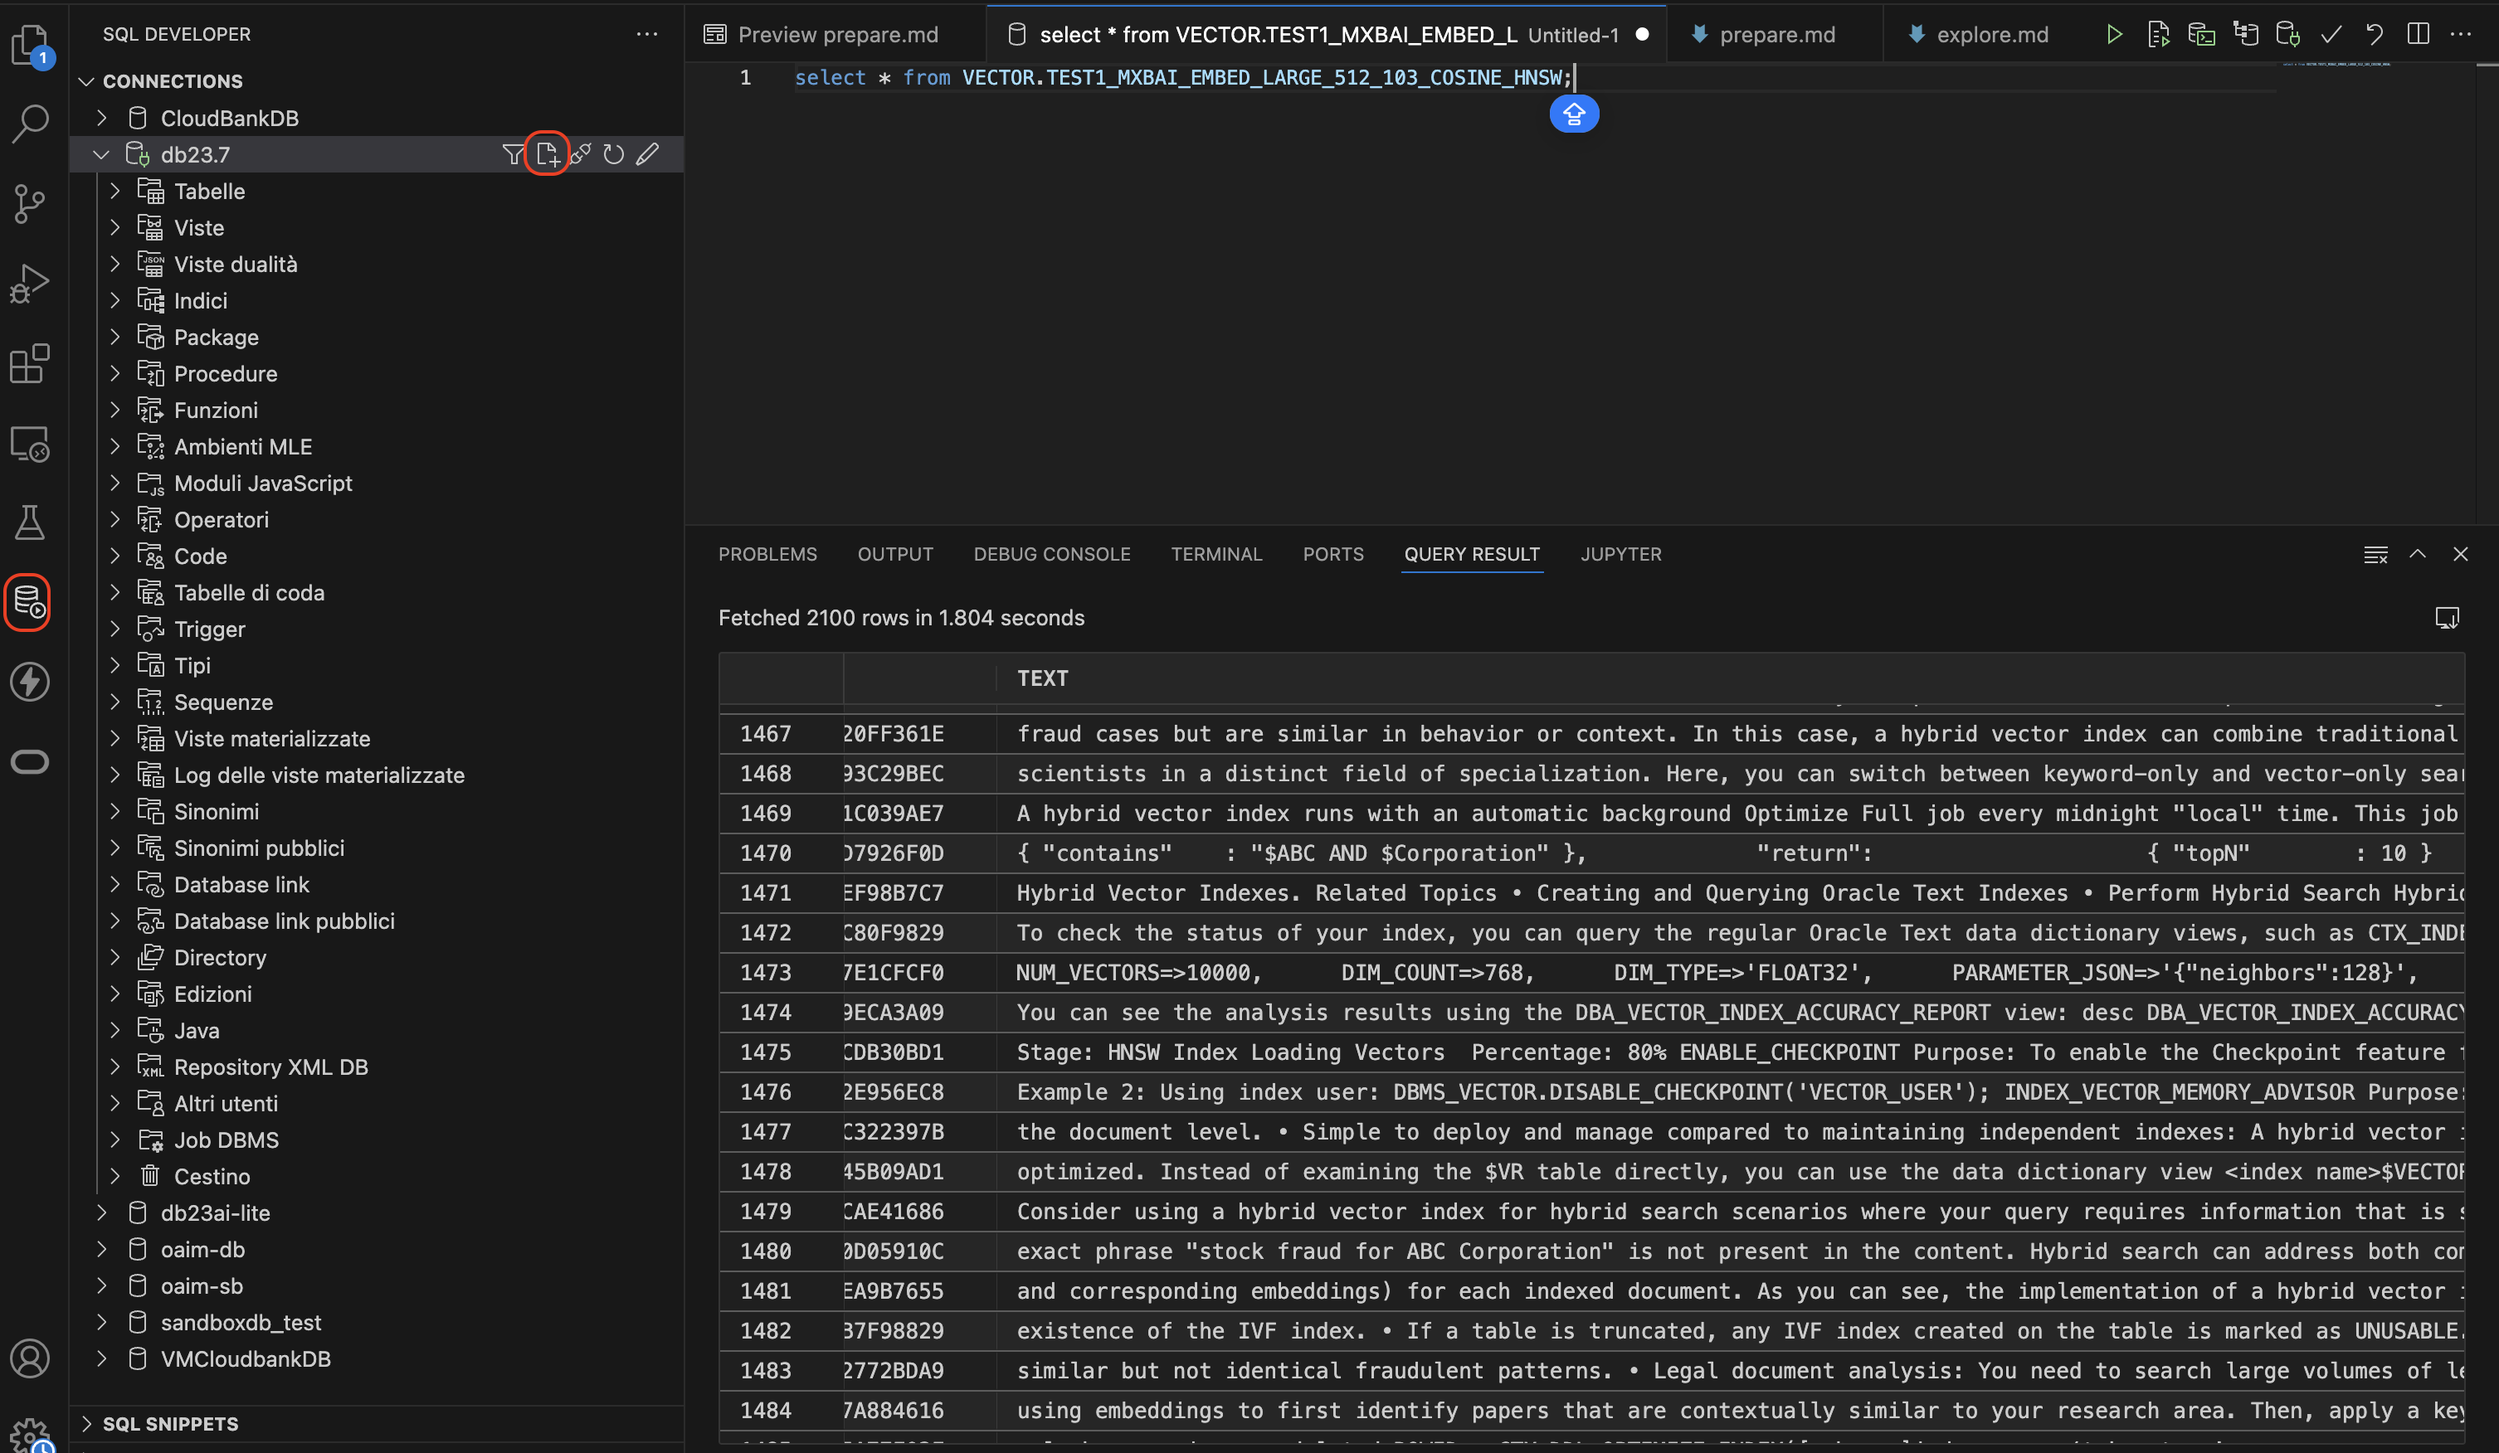
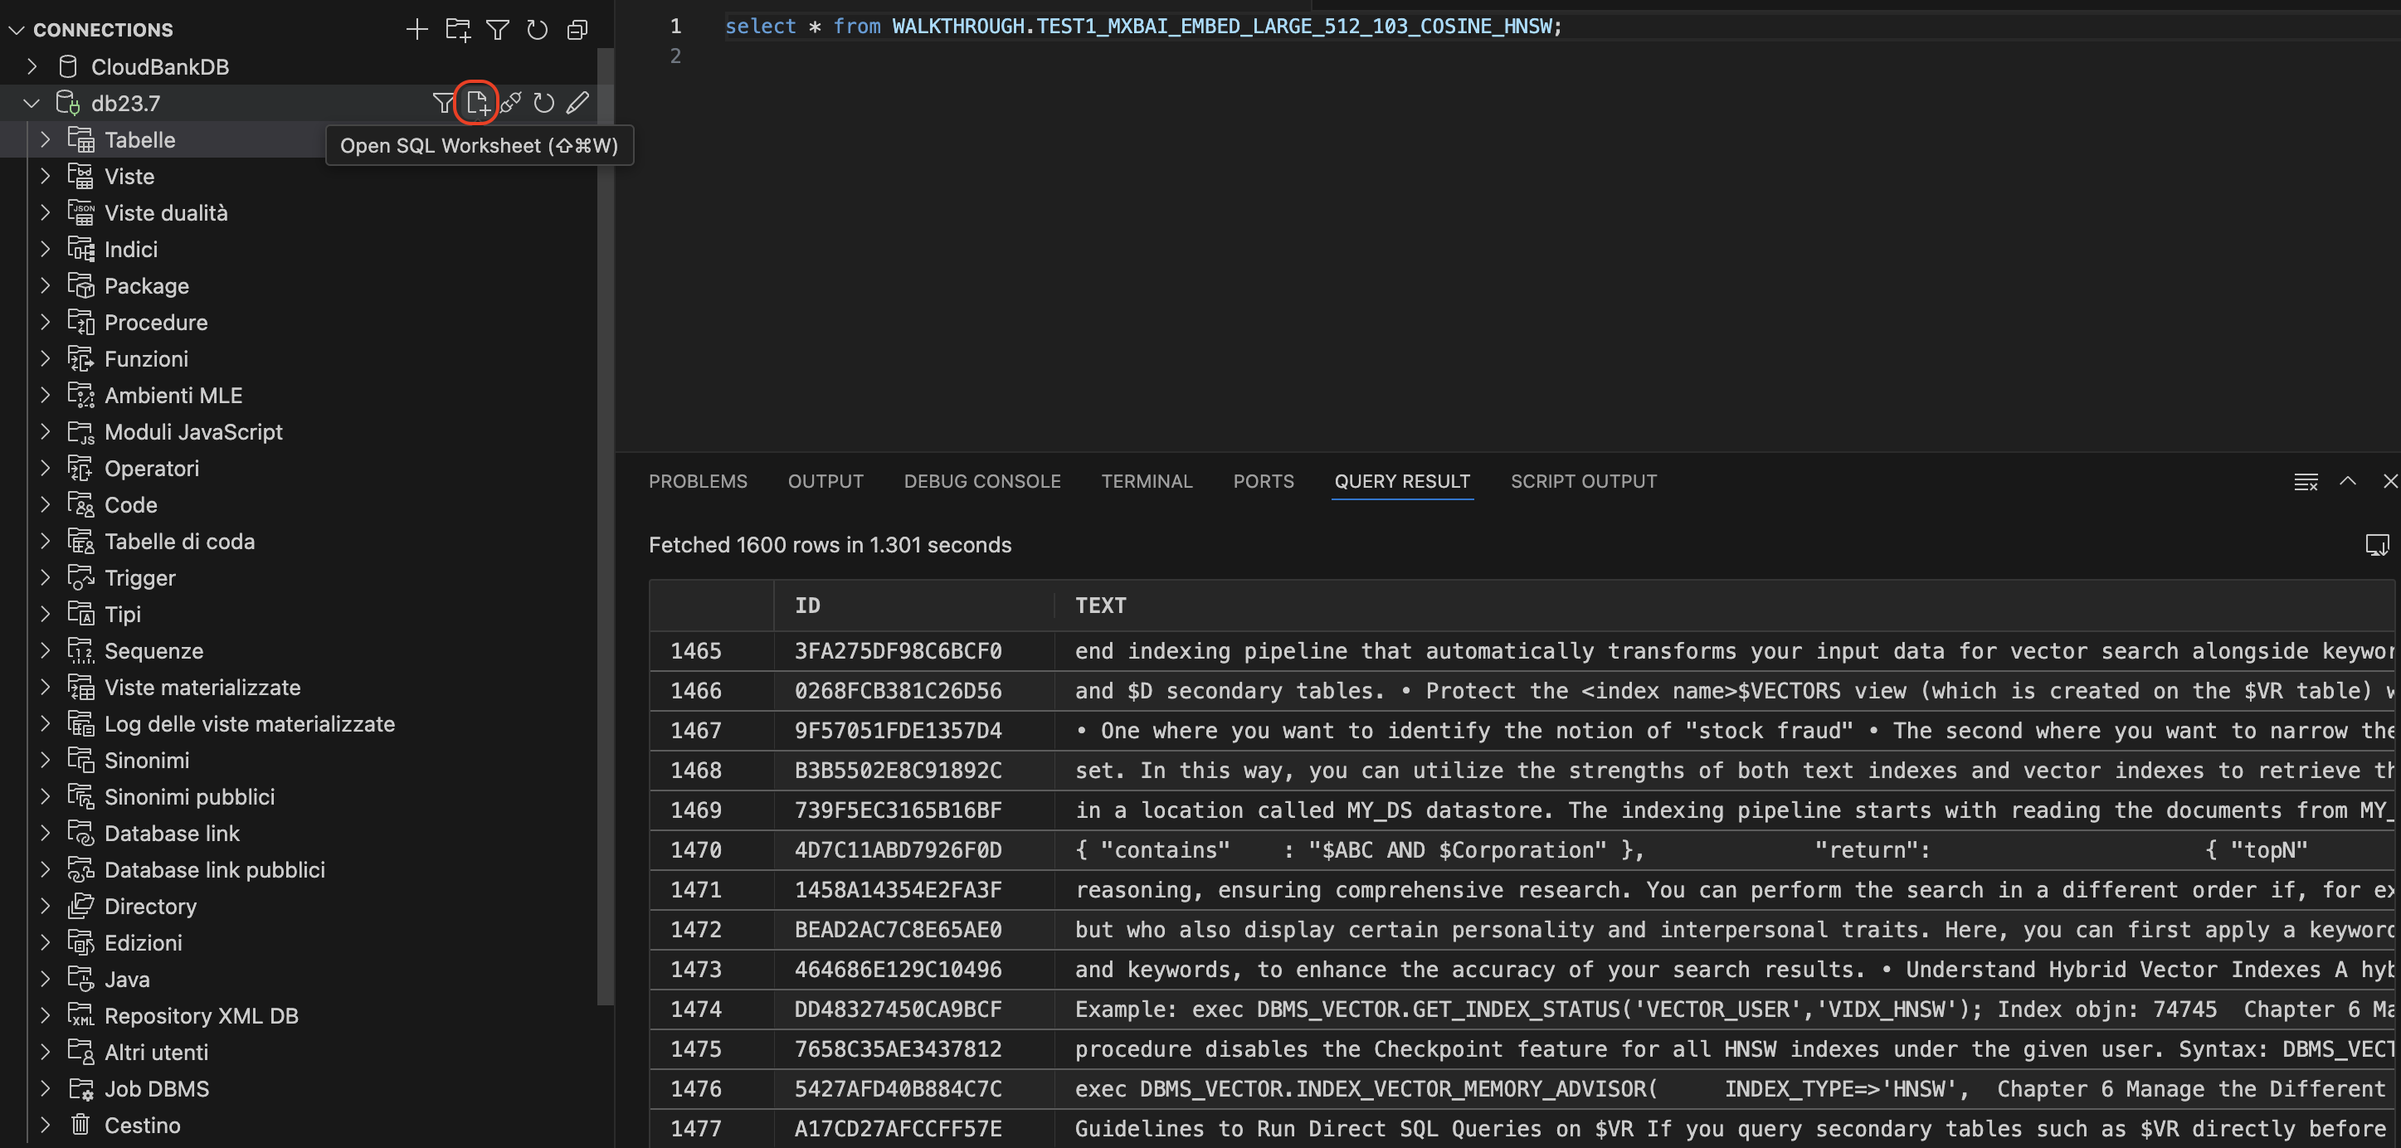
estimated times for lab1&lab2

diff --git a/ai-optimizer/prepare/prepare.md b/ai-optimizer/prepare/prepare.md
@@ -4,7 +4,7 @@
 
 In this lab, we will perform a first vector store ingestion to test that it works. We will split&embed one document and store its vector embeddings inside the Oracle 23ai Database set up earlier. We will then be able to inspect the content of the tables that will be created.
 
-Estimated Lab Time: -- minutes
+Estimated Lab Time: 15 minutes
 
 ### Objectives
 
@@ -65,7 +65,7 @@ Now that you've embedded your document, you can query the content of the Vector 
 In your VS Code IDE, click on the SQL Developer plugin icon to use it. Then, open a new SQL script and execute this sql command:
 
 ```sql 
-select * from VECTOR.TEST1_MXBAI_EMBED_LARGE_512_103_COSINE_HNSW;
+select * from WALKTHROUGH.TEST1_MXBAI_EMBED_LARGE_512_103_COSINE_HNSW;
 ```
 You will then retrieve the rows from the newly created table.
 

diff --git a/ai-optimizer/explore/explore.md b/ai-optimizer/explore/explore.md
@@ -4,7 +4,7 @@
 
 In this lab, you will explore the environment that was created in the *Get Started* lab. You will set up the database connection, configure the OCI credentials, add new LLMs and Embedding models and test out the *Chat* feature for the first time.
 
-Estimated Time: -- minutes
+Estimated Time: 15 minutes
 
 ### Objectives
 
@@ -99,7 +99,7 @@ scroll down the left-side menu to find the **Chat model** menu:
 
 ![chat models](images/chatmodel.png)
 
-and, with the **Enable RAG?** check-box unselected, choose the **gpt-4o-mini** and ask generic questions like:
+and, with the **Enable RAG?** check-box unselected, choose the **llama3.1** model and ask generic questions like:
 
 ```text
 In Oracle Database 23ai, how do I determine the accuracy of my vector indexes?
